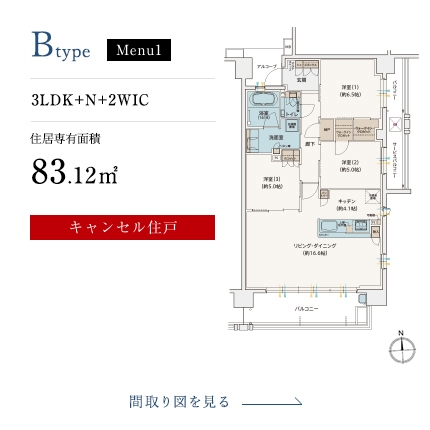
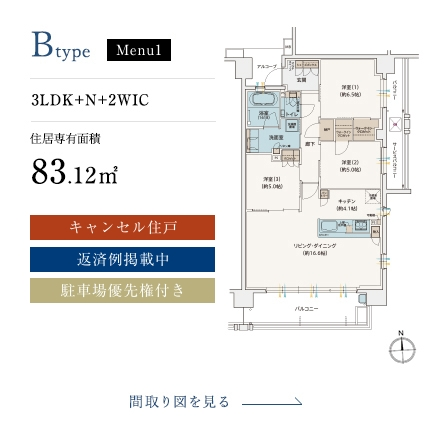
no message

Changed region(s): [[0.0605, 0.4837, 0.514, 0.7256]]

diff --git a/member/plan/plan_b_m1.html b/member/plan/plan_b_m1.html
@@ -88,9 +88,12 @@ j=d.createElement(s),dl=l!='dataLayer'?'&l='+l:'';j.async=true;j.src=
     <div class="planDetail">
       <div class="flex">
         <section class="texts">
+          <div class="box">
+          <p class="topic">駐車場優先権付き</p>
           <h2 class="name">
             <span class="type"><strong>B</strong>type</span><span class="tag">Menu1</span>
           </h2>
+          </div>
           <div class="ldks">
             <p><strong>3</strong>LDK+N+2WIC</p>
           </div>

diff --git a/member/plan/css/style.css b/member/plan/css/style.css
@@ -339,6 +339,21 @@
   width: 35.7143%;
   order: 1;
 }
+.planDetail .flex .texts .box {
+  background-color: #f2f2f2;
+  padding-top: 10px;
+}
+.planDetail .flex .texts .topic {
+  padding: 5px 0;
+  background-color: #B9B07D;
+  text-align: center;
+  line-height: 1;
+  border: 1px solid #B9B07D;
+  color: #fff;
+  line-height: 1.2;
+  margin: 0 10px;
+  font-size: 17px;
+}
 .planDetail .flex .texts .name {
   margin-bottom: 20px;
   padding: 10px 0;
